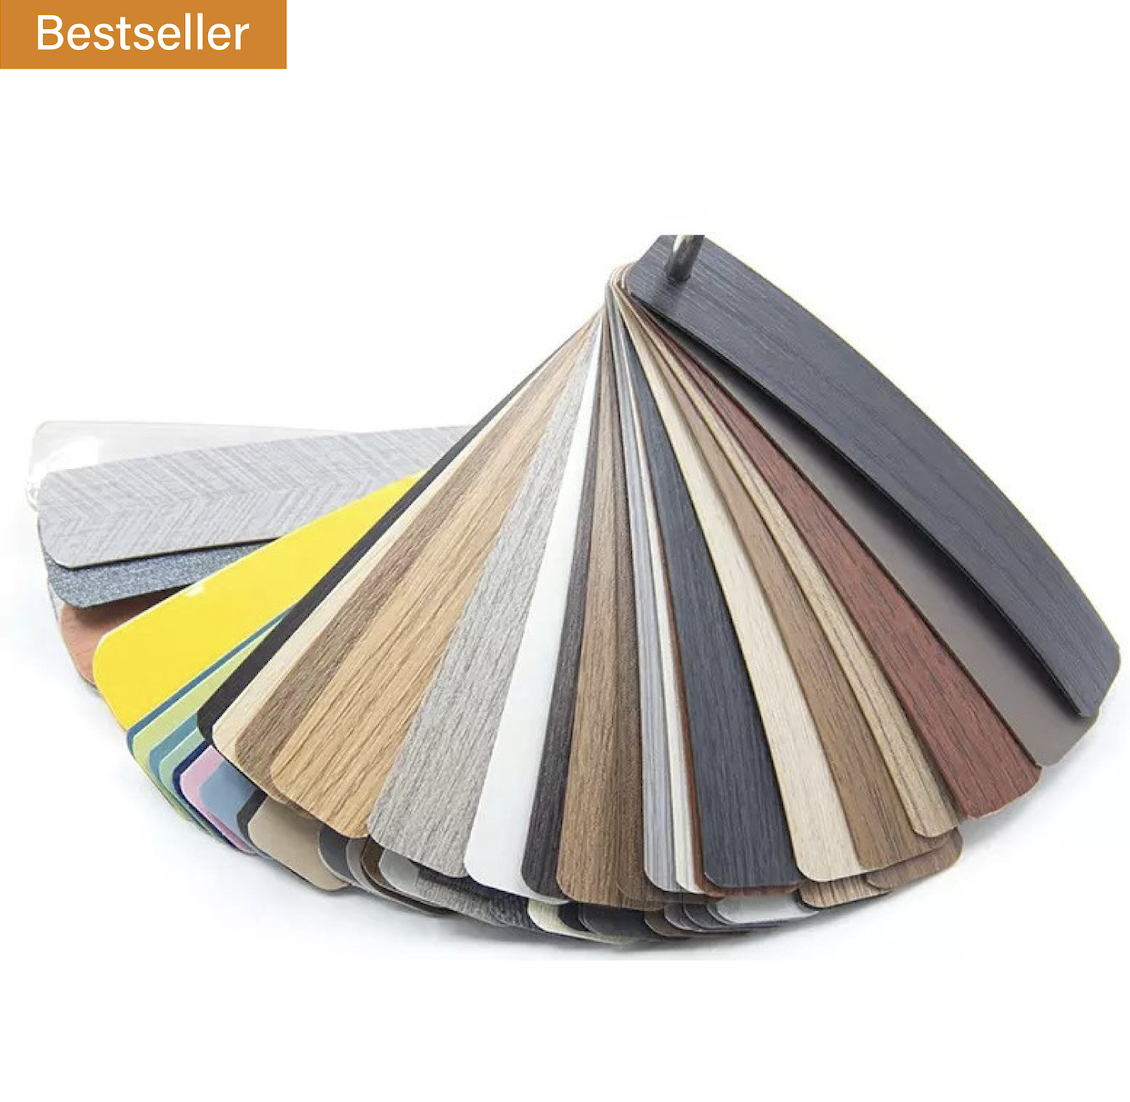
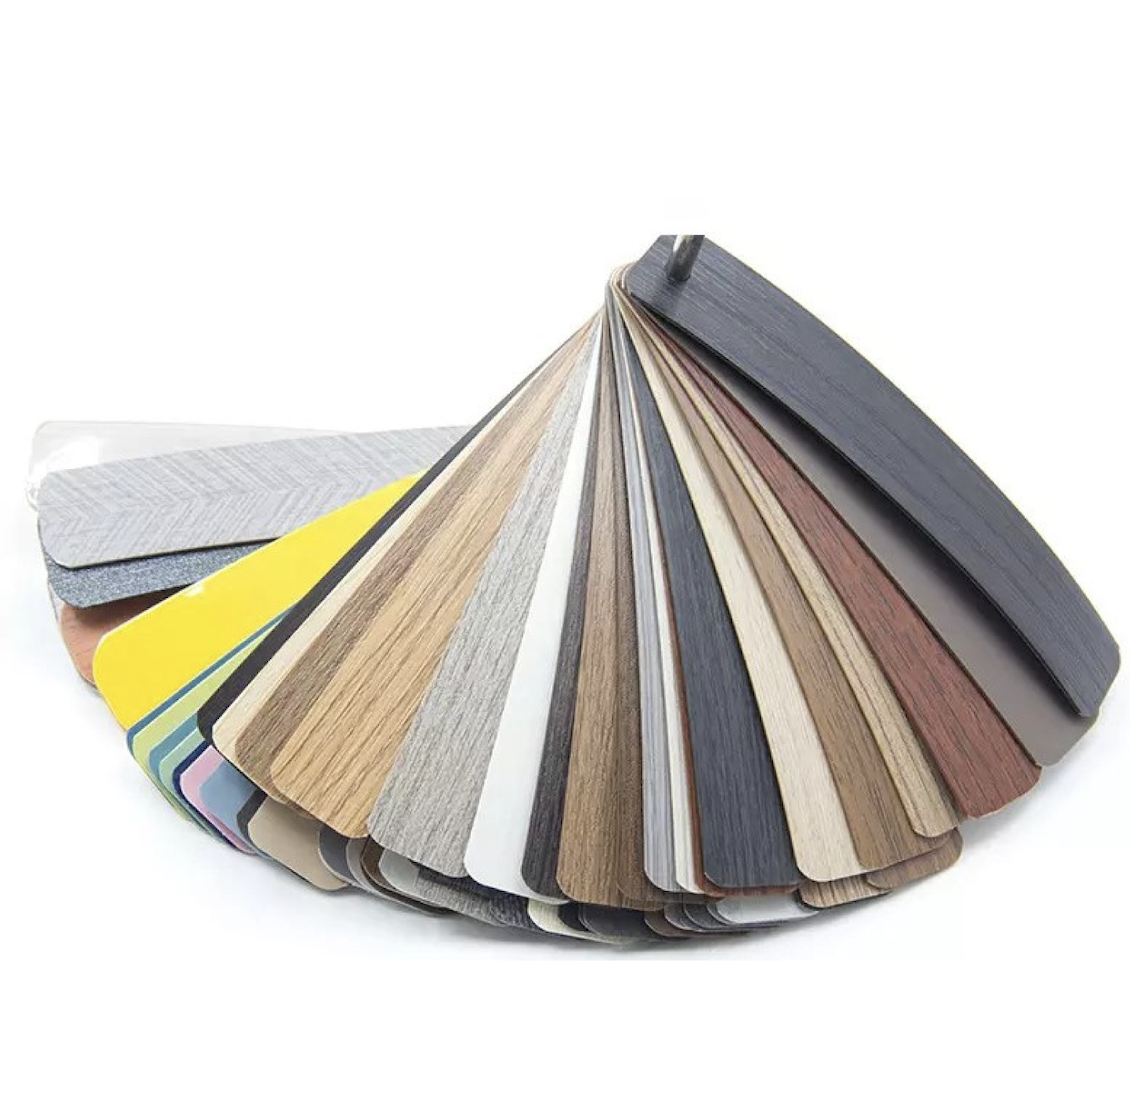
added bestseller tag

Changed region(s): [[0.0, 0.0, 0.2788, 0.0617]]

diff --git a/Product Description Mobile/Product_description_mobile.html b/Product Description Mobile/Product_description_mobile.html
@@ -188,6 +188,8 @@
 
     <div id="myCarousel" class="carousel slide" data-bs-ride="carousel">
 
+        <span style="background-color: #d57c00; color: white; padding: 5px 10px; position: absolute;z-index: 2;">Bestseller</span>
+
         
         <!-- dfsdfsdf -->
         <!-- Indicators -->
